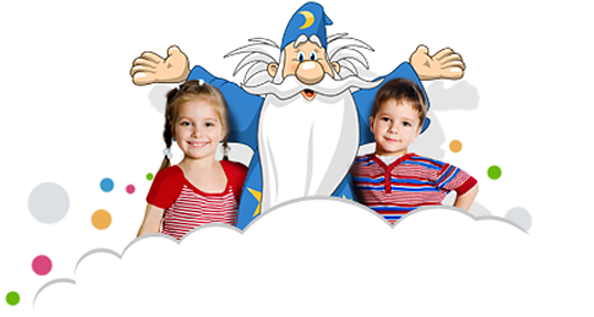
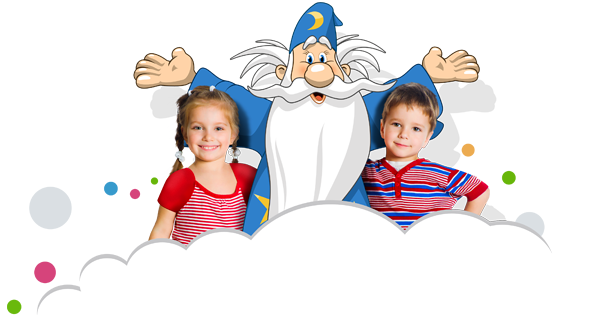
privaci page

diff --git a/desktop.bundles/privacy-policy/privacy-policy.bemjson.js b/desktop.bundles/privacy-policy/privacy-policy.bemjson.js
@@ -1,0 +1,63 @@
+({
+    block: 'b-page',
+    title: 'Privacy Policy — Magic Desktop 8',
+    favicon: '/favicon.ico',
+    head: [
+        { elem: 'css', url: '../merged/_merged.css', ie: false },
+        { elem: 'css', url: '../merged/_merged', ie: true },
+        { block: 'i-jquery', elem: 'core' },
+        { elem: 'js', url: '../merged/_merged.js' },
+        { elem: 'meta', attrs: { name: 'description', content: '' }},
+        { elem: 'meta', attrs: { name: 'keywords', content: '' }}
+    ],
+    mods: { page: 'privacy-policy' },
+    content: [
+        {
+            block: 'header'
+        },
+        {
+            elem: 'inner',
+            mix: [{ block: 'clearfix' }],
+            content: [
+                {
+                    block: 'sidebar',
+                    content: [
+                        {
+                            block: 'title',
+                            content: 'Easybits Kids Privacy Policy'
+                        }
+                    ]
+                },
+                {
+                    block: 'content',
+                    mods: { page: 'privacy-policy' },
+                    content: [
+                        {
+                            elem: 'h3',
+                            content: 'Dear customer,'
+                        },
+                        {
+                            elem: 'p',
+                            content: 'We in EasyBits Kids believe that privacy is one of the biggest issues of the Internet era. Our privacy policy is probably one of the most strict that you have ever met. We simply do NOT collect any personal information from you through any of our product lines.'
+                        },
+                        {
+                            elem: 'p',
+                            content: "We distinguish you among other customers by your license number (automatically issued by our server) and a PIN code you choose and give us or a unique hash generated when you acquire a license. That's it – NO personally identifiable information at all!"
+                        },
+                        {
+                            elem: 'p',
+                            content: "We protect kids' privacy as well by NOT collecting personally identifiable information, such as a full name or email address, or NOT posting messages nor submissions that contain personally identifiable information."
+                        },
+                        {
+                            elem: 'p',
+                            content: 'If we are contacted via email, we only use the email address to respond to your query (i.e. only done on a one-time basis).'
+                        }
+                    ]
+                }
+            ]
+        },
+        {
+            block: 'footer'
+        }
+    ]
+})

diff --git a/desktop.blocks/content/content.css b/desktop.blocks/content/content.css
@@ -1,7 +1,13 @@
 .content
 {
     margin-bottom: 66px;
-    padding-left: 415px;
+/*    padding-left: 415px;*/
+    overflow: hidden;
+}
+
+.content_page_privacy-policy
+{
+    margin-bottom: 190px;
 }
 
 .content__h3

diff --git a/desktop.blocks/about-product/__image/about-product__image.css b/desktop.blocks/about-product/__image/about-product__image.css
@@ -1,9 +1,10 @@
 .about-product__image
 {
     position: absolute;
-    left: 27%;
+    left: 25%;
     
     height: auto;
+    
     width: 100%;
     max-width: 45%;
 }

diff --git a/desktop.blocks/title/title.css b/desktop.blocks/title/title.css
@@ -2,7 +2,7 @@
 {
     font-size: 35px;
 
-    width: 275px;
+    width: 75%;
     margin-bottom: 85px;
 
     color: #333;

diff --git a/desktop.blocks/sidebar/sidebar.css b/desktop.blocks/sidebar/sidebar.css
@@ -1,5 +1,5 @@
 .sidebar
 {
-    width: 415px;
+    width: 35%;
     float: left;
 }
